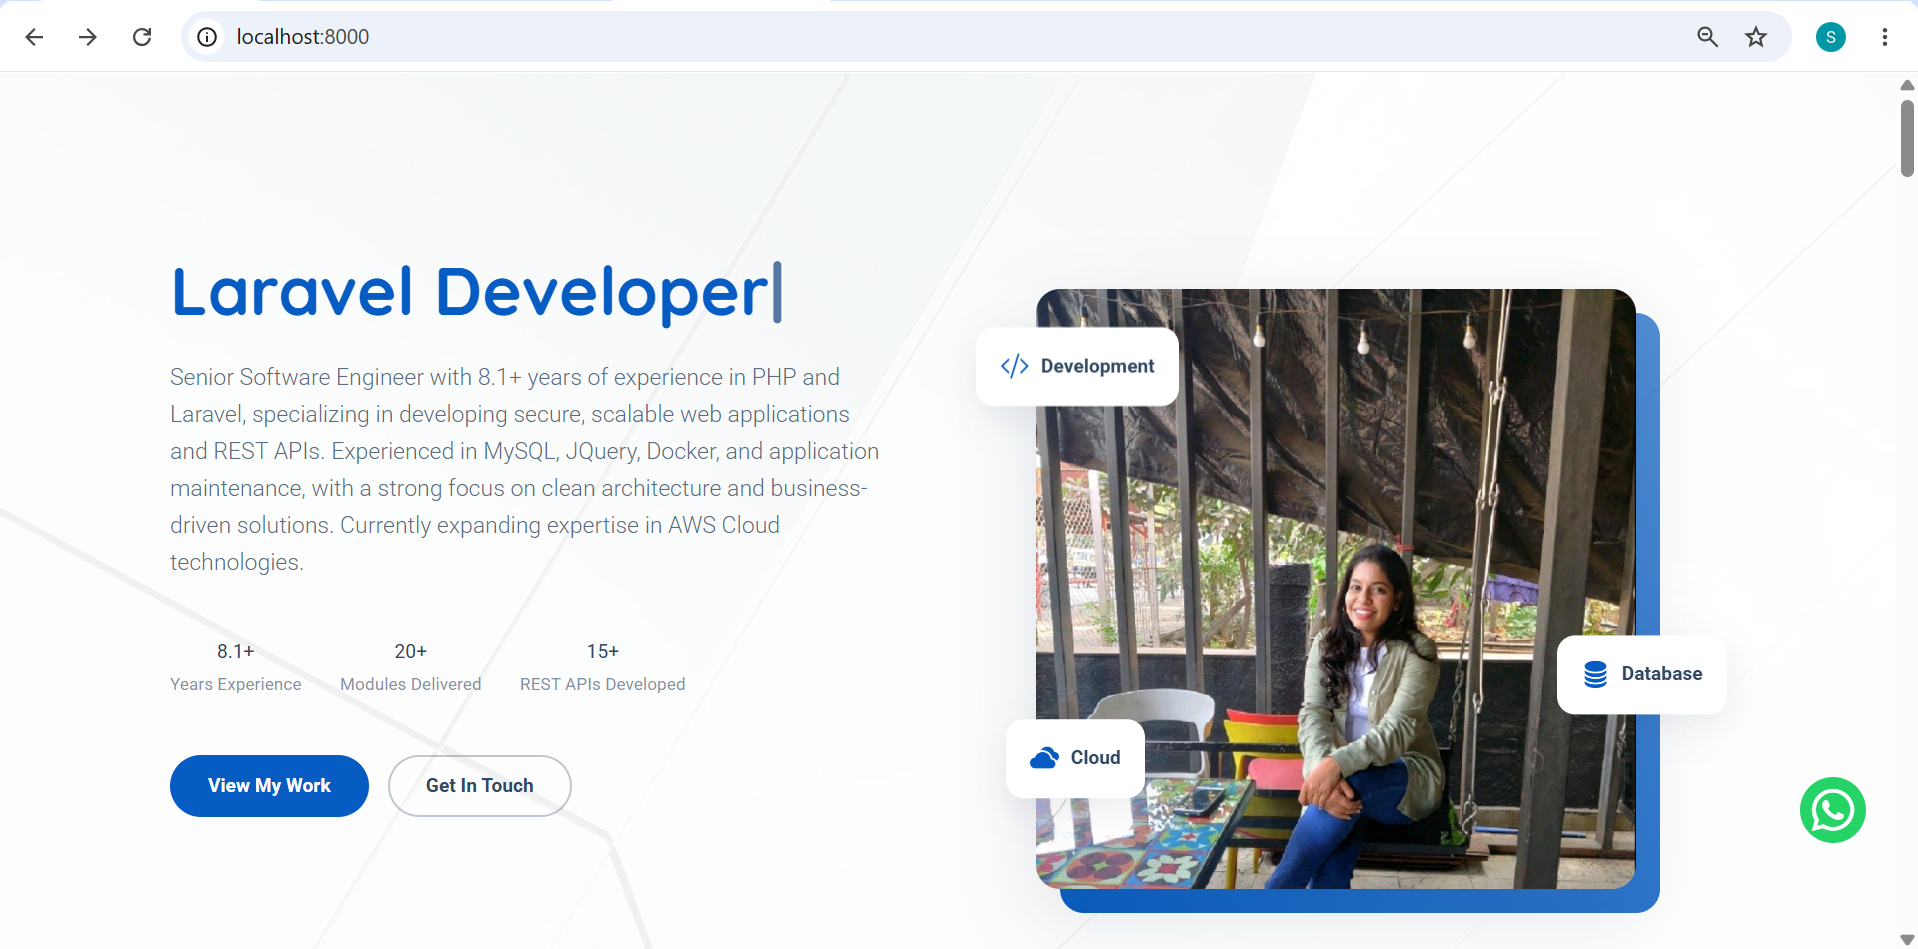
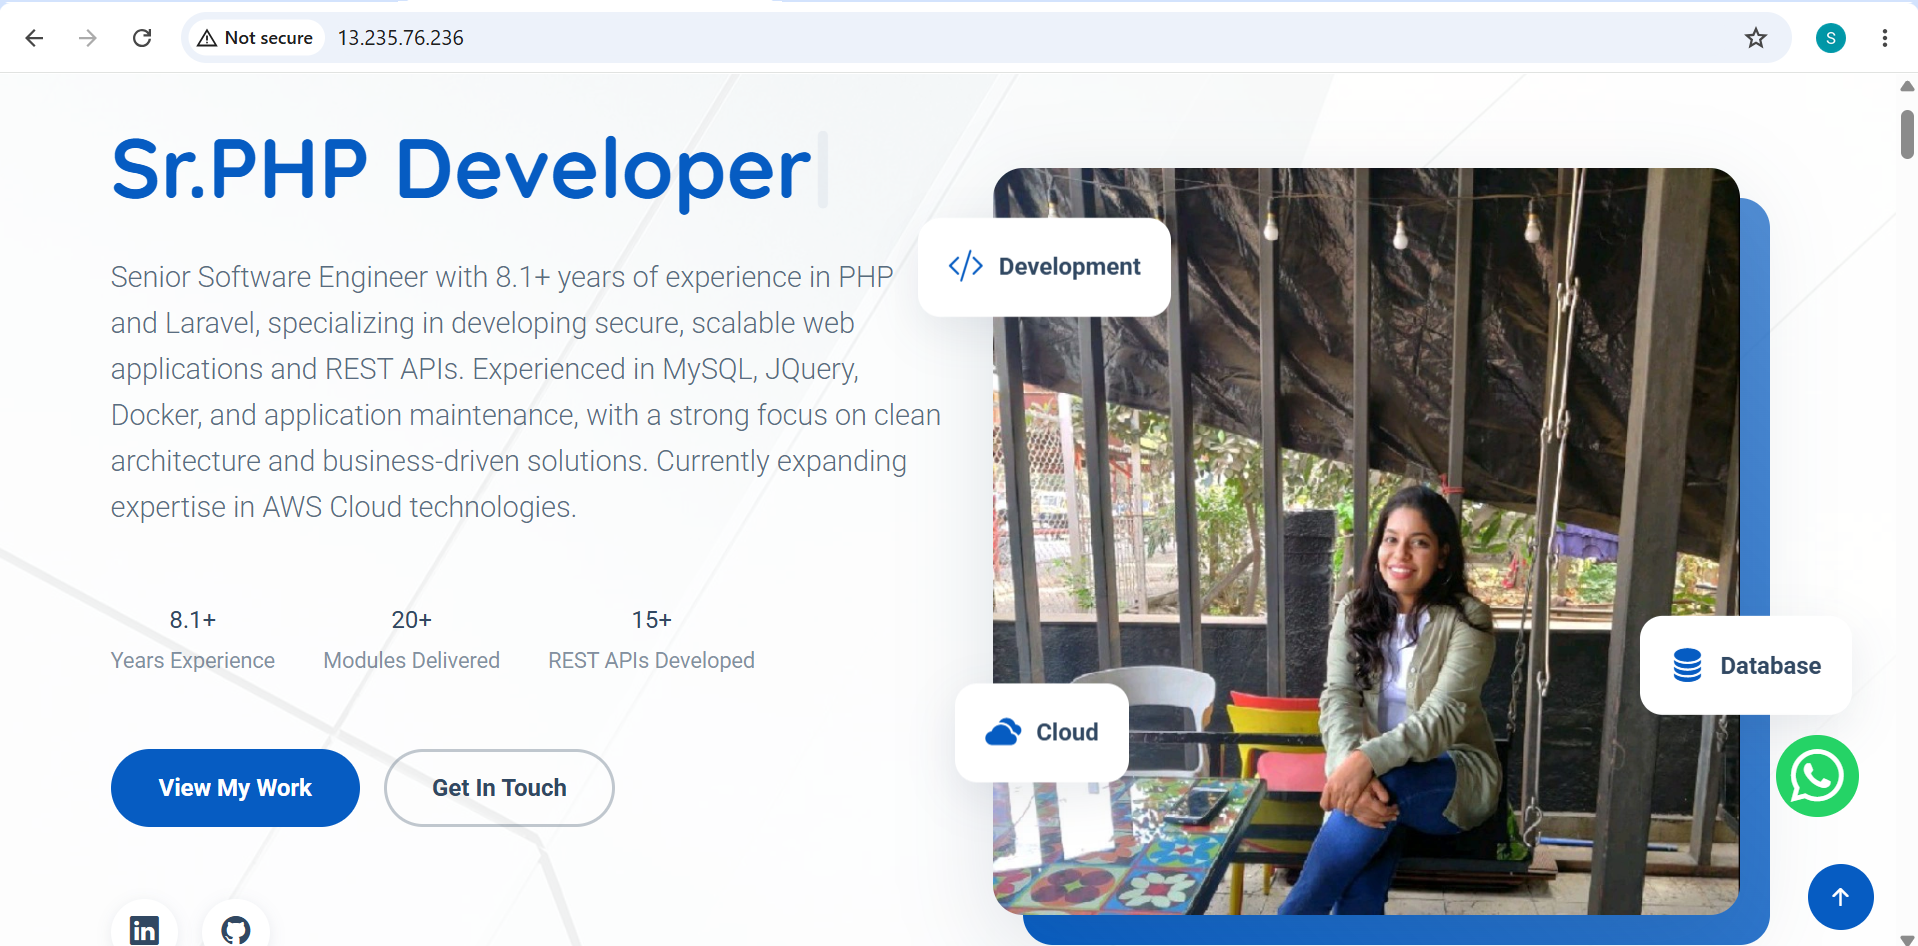
Add project documentation, screenshots and attribution notice

diff --git a/README.md b/README.md
@@ -70,12 +70,18 @@ The application is containerized using Docker Compose with PHP-FPM, Nginx, and M
 - Docker Compose
 - Nginx
 - PHP-FPM
-
-## Planned Deployment
-
 - GitHub Actions
+- Amazon ECR
 - AWS EC2
-- HTTPS
+
+## Deployment
+
+- GitHub Actions CI/CD
+- Docker Image Build
+- Amazon ECR
+- AWS EC2
+- Nginx Reverse Proxy
+- HTTPS (Future Enhancement)
 ---
 
 # 🐳 Docker Setup
@@ -184,23 +190,142 @@ http://localhost
 ```
 ---
 
+# CI/CD Pipeline
+
+The project uses GitHub Actions for automated Docker image validation and deployment workflow.
+
+Pipeline Flow:
+
+1. Developer pushes code to GitHub
+2. GitHub Actions triggers workflow
+3. Docker image is built and validated
+4. Image is pushed to Amazon ECR
+5. EC2 pulls latest Docker image
+6. Application runs using Docker Compose
+
+---
+
 # Screenshots
 
 ## Portfolio Home Page
 
-![Portfolio Home](screenshots/home.png)
+![Home](screenshots/home.png)
+
+## Portfolio About Page
+
+![About](screenshots/about.png)
+
+## Skills
+
+![Skills](screenshots/skills.png)
+
+## Projects
+
+![Projects](screenshots/projects.png)
+
+## Experience
+
+![Experience](screenshots/experience.png)
+
+## Services
+
+![Services](screenshots/services.png)
+
+## Current Learnings
+
+![Current Learnings](screenshots/learnings.png)
+
+## FAQ
+
+![FAQ](screenshots/faq.png)
+
+## CONTACT
+
+![Contact](screenshots/contact.png)
 
 
-## Admin Dashboard
 
-![Admin Dashboard](screenshots/admin-dashboard.png)
+## Admin - Project Management
+
+![Admin Dashboard](screenshots/portfolio-admin-dashboard.png)
+
+## Admin Showlist
+
+![Admin Dashboard Showlist](screenshots/portfolio-admin-dashboard-showlist.png)
+
+## Admin Profile
+
+![Admin Profile](screenshots/portfolio-admin-profile.png)
+
+## Admin Project
+
+![Admin Project](screenshots/portfolio-admin-project.png)
+
+## Admin Edit Project
+
+![Admin Project Edit](screenshots/portfolio-admin-editProject.png)
+
+## Admin Skills
+
+![Admin Skills](screenshots/portfolio-admin-skills.png)
+
+## Admin Edit Skills
+
+![Admin Skills Edit](screenshots/portfolio-admin-skillEdit.png)
+
+
+## Admin Skill Category
+
+![Admin Skill Category](screenshots/portfolio-admin-skillcategory.png)
+
+
+## Admin Experience
+
+![Admin Experience](screenshots/portfolio-admin-experience.png)
+
+
+## Admin Education
+
+![Admin Education](screenshots/portfolio-admin-education.png)
+
+## Admin Learnings
+
+![Admin Learnings](screenshots/portfolio-admin-currentLearnings.png)
+
+
+## Admin Service
+
+![Admin Service](screenshots/portfolio-admin-services.png)
+
+
+## Admin workflow
+
+![CICD workflow](screenshots/workflow.png)
+
+
+## AWS EC2 Instance
+
+![AWS EC2 Instance](screenshots/portfolio-AWS-EC2.png)
+
+
+## AWS ECR Image
+
+![AWS ECR Image](screenshots/portfolio-AWS-ECR-Image.png)
+
+
+## Docker Terminal EC2
+
+![Docker Terminal EC2](screenshots/docker-terminal-ec2.png)
+
 
 
 ## Future Improvements
 
-- GitHub Actions (CI/CD)
-- AWS EC2 Deployment
-- Domain & HTTPS
+- Configure custom domain
+- Enable HTTPS using SSL certificate
+- Add automated database backup
+- Add monitoring using Prometheus and Grafana
+- Implement Redis caching
 
 ---
 
@@ -219,3 +344,13 @@ Full Stack PHP Developer
 - Git
 - AWS
 
+## Acknowledgements
+
+This project incorporates third-party open-source software and assets.
+
+- Laravel Framework
+- AdminLTE
+- Bootstrap
+- Other frontend libraries as included in the project
+
+All third-party components remain subject to their respective licenses.
